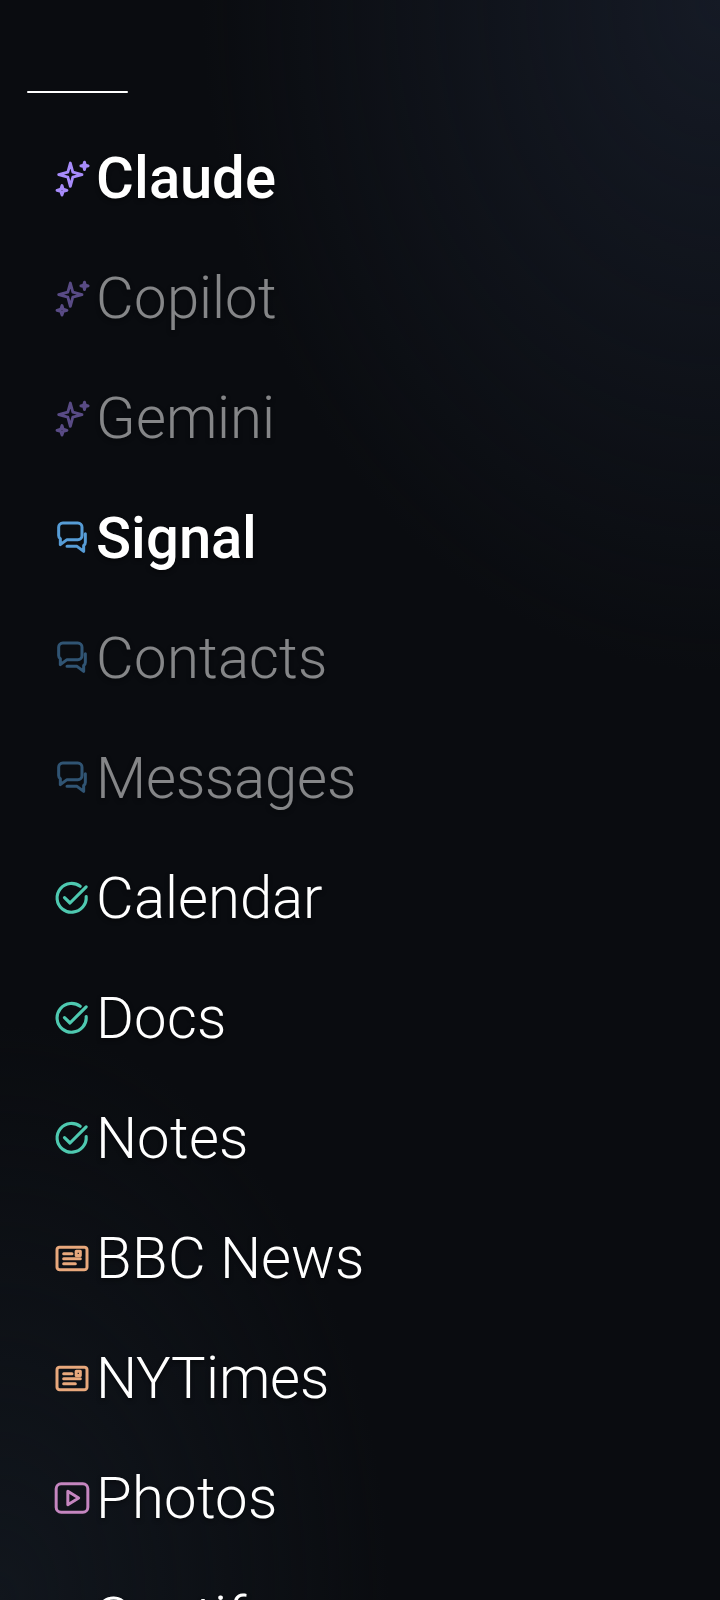
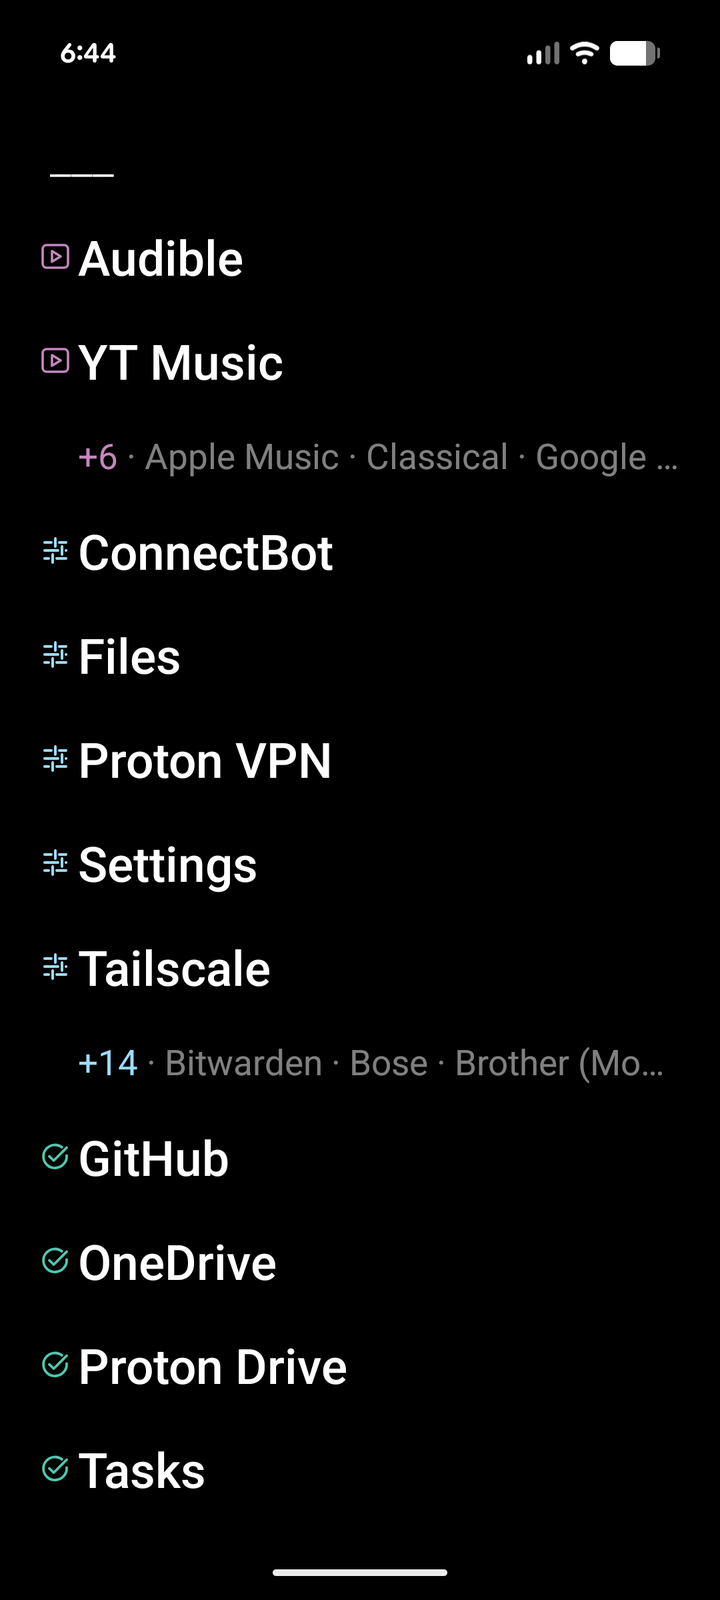
Update the drawer screenshot for collapsed groups (#16)
Replaces docs/screenshots/drawer.png with a device capture showing the Media
and Tools groups folded behind their "+N · …" lines under the emphasized
apps, scaled to the same 720x1600 frame as the other screenshots. The README
now says which screens are renders and which is a device capture.

Claude-Session: https://claude.ai/code/session_01JwfvaiWhUT5RTYB9XaJDG5

diff --git a/README.md b/README.md
@@ -14,8 +14,9 @@ settings. Full details in the **[user guide](GUIDE.md)**.
 | :---: | :---: | :---: |
 | ![Home screen: the date at the top, and at the bottom a search bar beside a round key glyph for the password manager](docs/screenshots/home.png) | ![App drawer: apps listed in colored groups with a search field on top; emphasized apps are bold and first while the rest of their group folds into one faded line](docs/screenshots/drawer.png) | ![Settings: Blauncher, Smart ordering, and Home screen cards](docs/screenshots/settings.png) |
 
-The screens above are renders built from the app's layouts, strings, and
-colors rather than device captures.
+The Home and Settings screens are renders built from the app's layouts,
+strings, and colors; the App drawer is a device capture, status bar and
+navigation handle included.
 
 ## What it does
 
